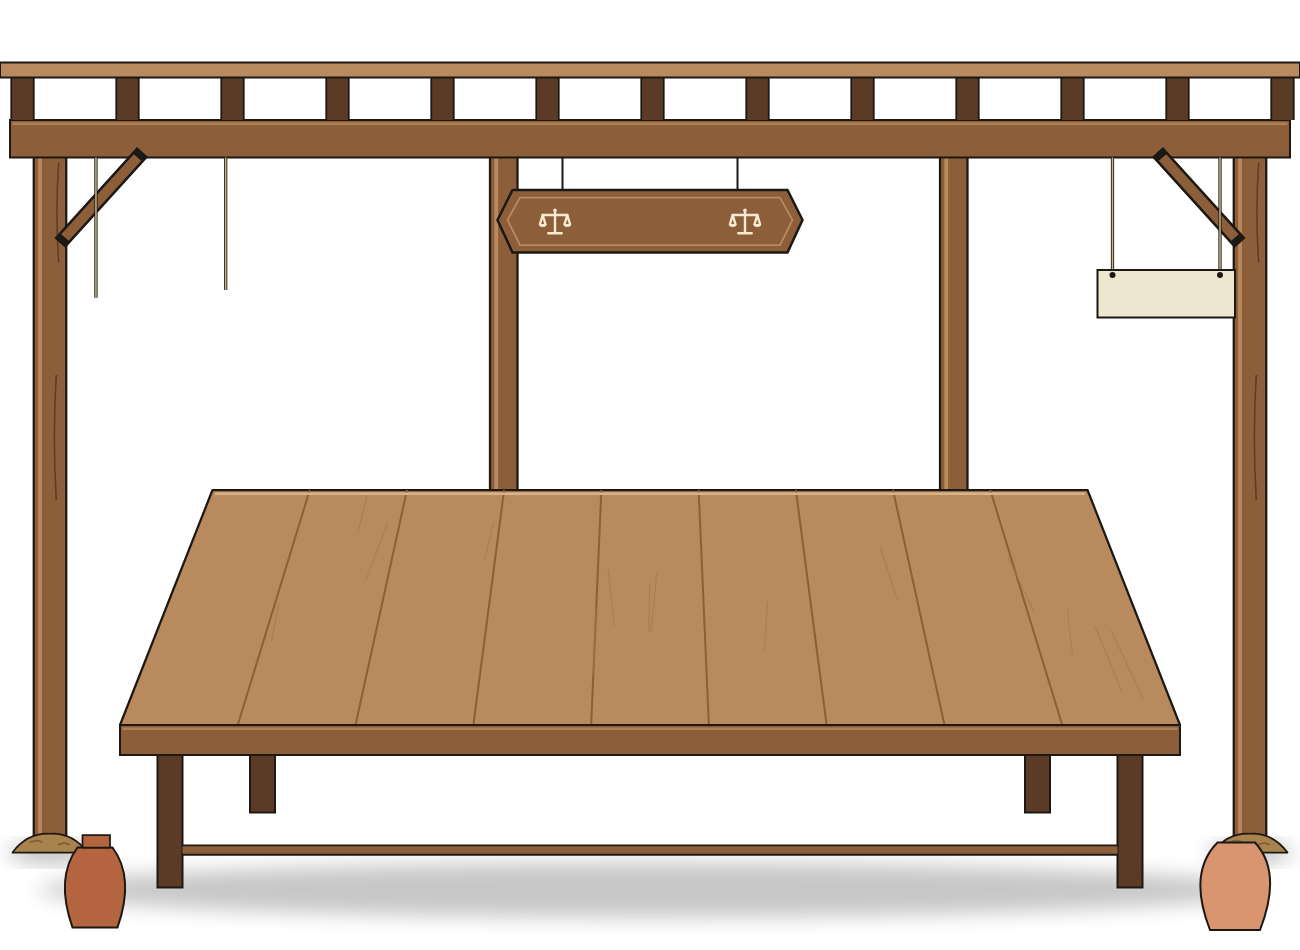
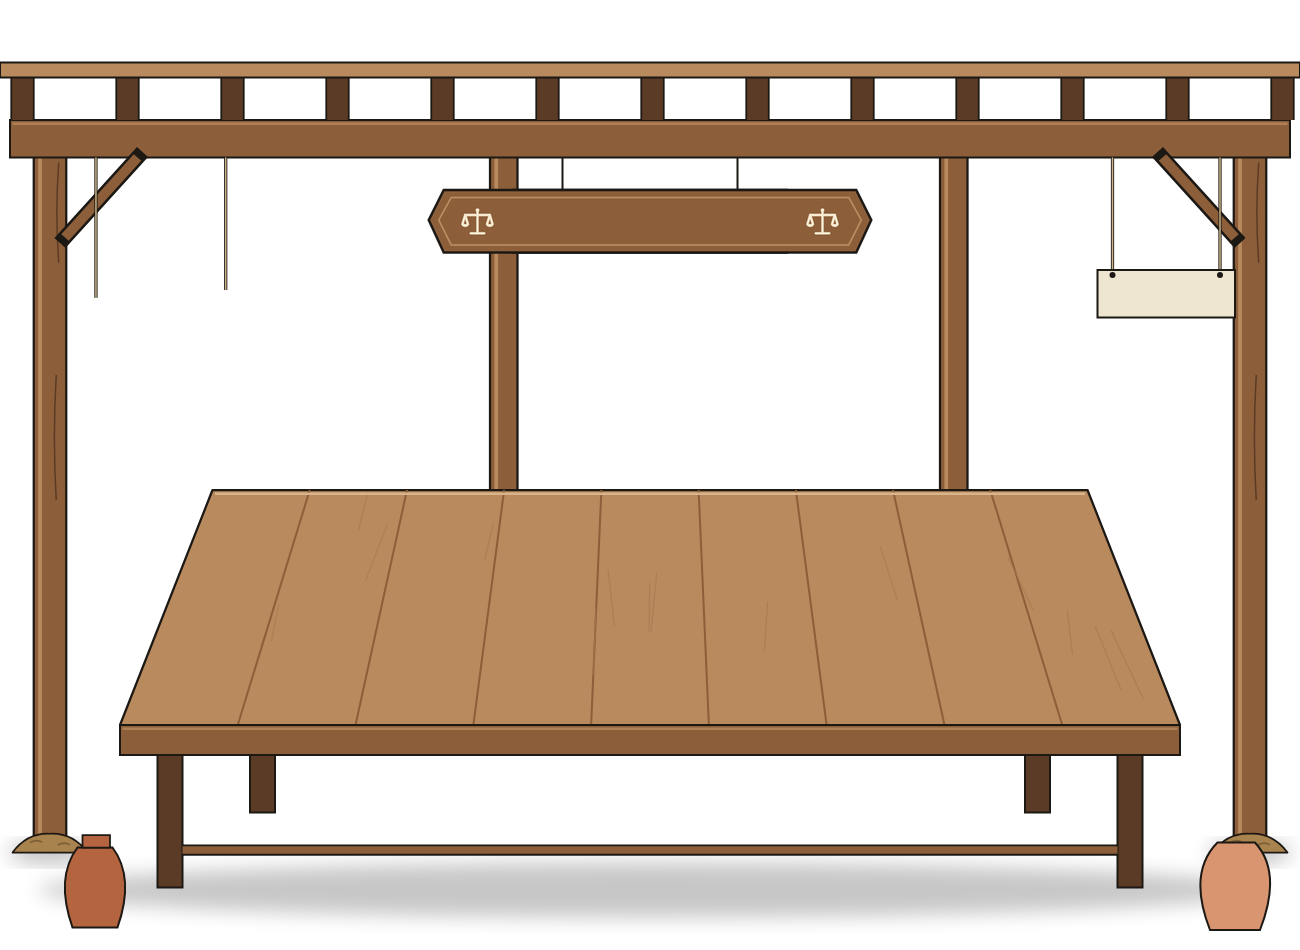
270 补充（作者 14:56）：固定摊不挂摊名、凉棚招牌加宽、武器横放（v4.90）
- StallView 去掉柜顶摊名挂牌，stall.json 去 hang
- 凉棚新 bg.png + layout.json（sign 框 155 → 290），招牌字比框宽就缩字
- 散货摊竖着长的武器转 90° 横放，一件最宽 LIE_MAX_W 240，超了缩格子
- 换货键的字留出钉子的位置

Claude-Session: https://claude.ai/code/session_018nu316eEhzvyxZFyrEBn2i

Changed region(s): [[0.5538, 0.1832, 0.6769, 0.2747], [0.3077, 0.1832, 0.4308, 0.2747]]

diff --git a/docs/architecture.md b/docs/architecture.md
@@ -1,6 +1,6 @@
 # 背包搜打撤 — 架构设计文档
 
-> 版本：v4.89 ｜ 引擎：Godot 4.7 (Forward+ / Jolt) ｜ 状态：M1～M6、069 进阶难度与猎手、第 7 阶段侵蚀都已落地，第 8 阶段内容扩充进行中（现状见 [status.md](status.md)，变更记录见 16 节）
+> 版本：v4.90 ｜ 引擎：Godot 4.7 (Forward+ / Jolt) ｜ 状态：M1～M6、069 进阶难度与猎手、第 7 阶段侵蚀都已落地，第 8 阶段内容扩充进行中（现状见 [status.md](status.md)，变更记录见 16 节）
 
 ## 0. 游戏概述
 
@@ -4507,6 +4507,7 @@ res://
 | v4.87 | 2026-10-31 | **选人页改版 B（作者 10-31 11:29 四条 + 11:56 选 B 木框羊皮纸，UI替换美术 charsel_hall/HANDOFF.md）**：第一页三栏都换基地木框羊皮纸 `PANEL_HOME_PLAQUE`（`SetupScreen._hall_board`，左中内边距 `HALL_INSET` 30、右栏 `RIGHT_PAD` 10 → 26；`LEFT_W` 336 → 308；`CARD_H` 840 → 760），不再垫皮、右栏不再是 `PANEL_BARE`；角色名单换 `BUTTON_HOME` 平头木键（高 `CHAR_KEY_H` 56、字 20、居中，选中 = 按下态，不压蜡封）；铭牌换新组件 `StatSealPlate`（小木牌底：名字 26 粗 → 细线 → 两列网格，每格火漆 38 + 项名 12 + 数 21 粗；生命 / 耐力 / 耐力回复 / 体力的火漆 `stats_strip/seal_hp / seal_vigor / seal_stamina / seal_vitality`（体力是新图），base_stats 里改过的别的面板项接着排、没有火漆），「角色」副行与角色说明删了，原来那排 `StatPlaque` 蜡板删了（组件一并删）；`CapTile` 底换小木牌、宽上限 180 → 206；技能名朱褐 `#8a3b12`、短板铁灰 `#4a4f57`、不描边（浅底小主题 `text_theme` 里写 `LABEL_SKILL_NAME / LABEL_FLAW_NAME`，`UiTheme.SKILL_NAME_INK / FLAW_NAME_INK`）；随身之物图标在浅底上不垫深槽（`EntryIcon._draw_item` 看 `tone_at`）；图例小签 `PANEL_HOME_CHIP`。三页共用：`TitlePlate.wood` 开着画木框羊皮纸（只开局屏开），右下「返回」`BUTTON_SETUP_BACK`（改成以 `BUTTON_HOME` 为底、字 30）、「继续 / 出发」`BUTTON_SETUP_GO`（以 `BUTTON_HOME_PRIMARY` 为底、字 40），名单 `BUTTON_SETUP_CHAR`（`BUTTON_HOME` 底、字 20），高照旧 84；铜铸键图 `setup/btn_*` 与 `ART_SETUP_BACK / GO` 删了。顺带：对局记录里 269 前的老行分一栏只写「—」（游戏测试 v4.86） |
 | v4.88 | 2026-10-31 | **选人页 B 补充一（UI替换美术 13:20，按作者「图像能说明的不加文字，先少再多」）**：右栏照 #393 不垫底（`PANEL_BARE`，`RIGHT_PAD` 回 10）；`StatSealPlate` 每格只留火漆 40 + 数 24 粗（间距 10），项名进格子悬停（`MOUSE_FILTER_STOP`），没有专属火漆的项照写名 + 数；`CapTile` 说明行不显示、进整块悬停，宽上限回 180。**269 补充一（作者 12:58 选 B）**：`score.json` 击败 25 / 100 / 500，同 96 种子三档重跑战利:战绩中位 5.1 / 5.8 / 3.3（`/mnt/project-files/architecture/269-calibration.md`） |
 | v4.89 | 2026-10-31 | **270 集市分摊位**（作者 12:01 / 12:58「其余按推荐」；美术 UI替换美术 B 格子柜）：新内容种类 `market_stalls`（`StallDef`：id、名、`order`、`fixed`、`tags`、`excluded_ids`；`data/authoring/market_stalls/` 六份：药铺 remedy / 粮铺 food + supply / 兵器铺 weapon + ammo / 甲胄铺 armor + shield / 杂货铺 material / 散货摊 loose），排在 `base_rules` 之后。`MarketRules` 加 `battle_tags`、`loose_rarity_min` 1、`loose_rarity_weights` [50, 30, 14, 5, 1]、`refresh_cost` 40 / `refresh_step` 20、`stall_min_listed` 3，退役 `allowed_tags` / `material_share` / `consumable_rarity_cap_per_level` / `rarity_weights`。`Market.catalogue(rules, items, stall, lv)` = 标签 ∩ 稀有度 ≤ `rarity_cap_per_level`，按稀有度、价、id 排，不足 3 件从更高档按同序补（待定 1）；`buy_listed` 不减货单。散货摊 = 原 `market_stock`：`loose_candidates` 只进战斗道具、绿起，`_draw` 先按权重抽一档（有货的档才算）再档内等概率；`restock` 锁着的格原位留、不和锁着的重、3 级最后一格包照旧；`refresh`（40 + 20 × `MetaState.market_refreshes`，`after_run_market` 归零）、`toggle_lock`、买走解锁；存档格多 `locked`、多 `market_refreshes` / `market_stall`（老档缺省 false / 0 / 空）。界面：`MarketPanel` 左列六颗 `CatKey`（随高缩放，记住上回的摊），固定摊 = 新 `StallView`（`market/stall` 1100 × 760 + `stall.json` 7 × 3 货格、货底对齐、`PriceTag` 金币式钱不够写红、`HeaderTag.hanging` 摊名、钱牌、多于 21 件右边外面竖排页签 `BUTTON_SETUP_TAB`）；散货摊仍是木凉棚（招牌写摊名），钱牌下 `RefreshKey`（`market/refresh*` 四态 + `refresh.json` 字框，钱不够贴灰图红价点不了），右键多「锁定 / 解锁」，锁着的货画 230 的小锁。科技「高级货物」描述与 `market.level_line` 改说固定摊 / 散货摊；百科 meta 加「集市」页；字体补「胄」等。测试 `test_market_stalls_270`，改 251 / 252 / 125 |
+| v4.90 | 2026-10-31 | **270 补充（作者 14:56，UI替换美术试装 try1456）**：固定摊柜顶不挂摊名（决策卡 A：左边亮着的键就写着；`StallView.title` 删、`stall.json` 去 `hang`，`show_stall` 不再收摊名）；凉棚招牌加宽（新 `market/bg.png` + `layout.json` sign 框 x 505、宽 155 → 290），`MarketStage._draw_sign_text` 字比框宽按比例缩字；散货摊竖着长的武器转 90° 横放（`MarketPanel.lie_flat_rot`：带 weapon、行比列多 → rot 1；药 / 盾 / 包不转），一件货最宽 `LIE_MAX_W` 240 设计像素、超了按比例缩格子；`RefreshKey` 字宽上限 = 字框宽 − `LABEL_PAD` 12（英文 Restock 不贴钉子） |
 | v4.70 | 2026-10-29 | **260 补充五（作者 10-29 09:03「改成保留小数点后两位，比如15.43k，2.34m，3.1b」，取代补充三、四的罗马数字）**：碑额写 `RecordsStele.compact(v)` —— 1000 以下整数；千起 k、百万起 m、十亿起 b、万亿起 t，两位小数整数算、向下截不进位（999999 → 999.99k），末尾 0 去掉（3100000000 → 3.1b）；0 写「—」，悬停照旧写准数。横线、`roman / numeral_parts / overline_stack` 删掉；基线 = 碑额顶 + 75 + 字号 × 0.375，金币固定 52、中心对准字身中线 |
 | v4.69 | 2026-10-28 | **260 补充四（作者 10-28 18:35「类似现代计数……超过千用K，超过百万用M，超过十亿用B，通过不断增加上划线」，取代补充三）**：`RecordsStele.numeral_parts` 返回 [最高一段的罗马数字, 横线道数]，每 ÷ 1000 加一道、向下取整、后面的段不写（742 → DCCXLII，5414 → V̅，3888888 → 两道线的 III，38 亿 → 三道）；碑额画 k 道横线（线宽 = 字宽，往上每道再空 max(2, 字号 × 0.05)，`overline_stack`），字和横线整块在碑额里竖向居中、金币中心对准字身中线；顺带修掉 v4.68 一百万起千位段一长串 M。**随身技能图标定稿**（作者 18:35「B+C」）：`assets/belt_skills/smoke_bomb.png`（陶罐）、`aid_pack.png`（亚麻小包），60 × 60；`BeltSkillDef.icon()` 把图留在 def 上（腰带在 `_draw` 里每帧画，184） |
 | v4.68 | 2026-10-28 | **260 补充三（作者 10-28 10:15 选 B「只写到千」）**：碑额大数 —— `RecordsStele.numeral_parts` 一万起只写千位段（`[roman(v / 1000), ""]`，向下取整，38888 → X̅X̅X̅V̅I̅I̅I̅），4000～9999 照旧带零头，悬停照旧写准数；金币固定 `WORTH_COIN` 52（不跟字缩，竖向中心在碑额顶 + 75），`worth_width` 金币那项跟着换，字区实宽 330 − 52 − 6；千位段上横线粗 max(2, 字号 × 0.06)，在字头（基线上方字号 × 0.75）再往上留 max(3, 字号 × 0.1) 的缝，不再贴着字头像删除线 |
